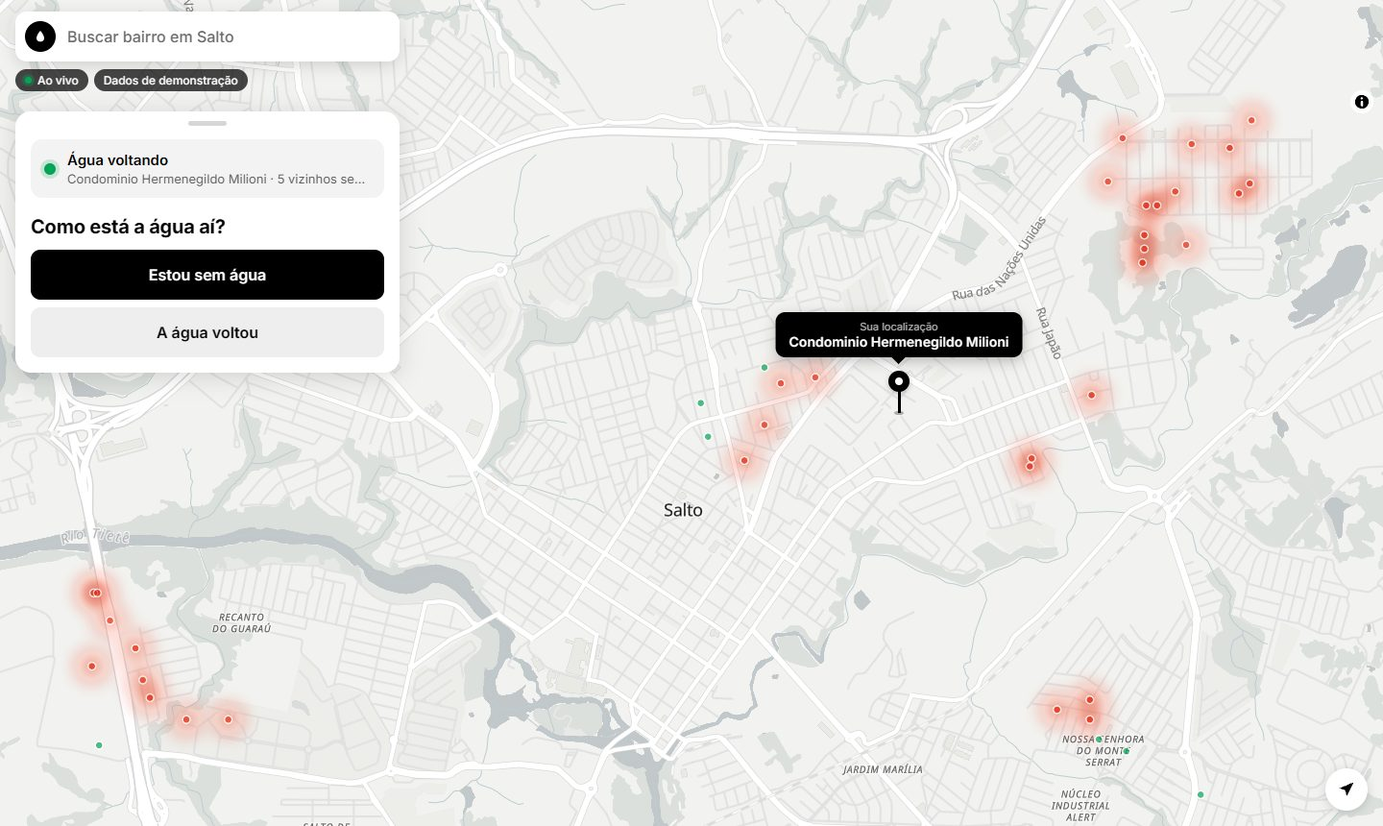
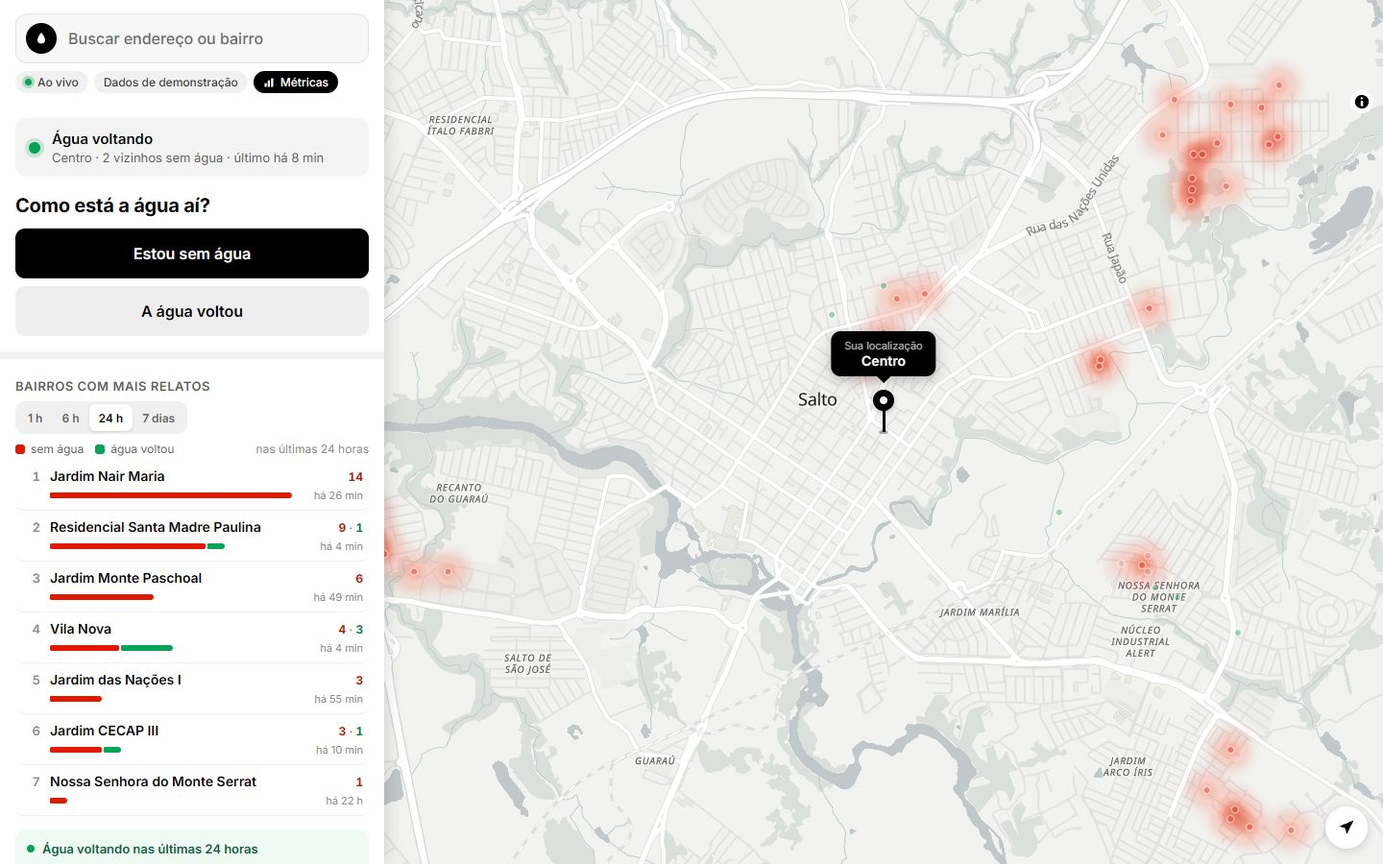
Documentação: README com novas capturas, recursos e Docker; AGENTS.md atualizado

diff --git a/AGENTS.md b/AGENTS.md
@@ -9,20 +9,22 @@ Instruções para agentes de IA (Claude Code, Codex, Cursor, Copilot, Gemini…)
 Rode da raiz (`nova-startup/`) ou de `tem-agua/` — a raiz só repassa com `--prefix tem-agua`.
 
 ```bash
-npm run dev          # API + mapa + painel + shell → http://localhost:4200
+npm run dev          # banco (Docker) + API + mapa + painel + métricas + shell → http://localhost:4200 (métricas em /metricas)
 npm run dev:ngrok    # + túnel HTTPS público via ngrok (token em tem-agua/.env.local: NGROK_AUTHTOKEN=)
 npm run dev:tunnel   # + túnel HTTPS público via cloudflared (sem conta, link muda a cada execução)
-npm run stop         # derruba tudo que os comandos acima subiram (portas 4200/4201/4202/4300 + túnel do script)
+npm run stop         # derruba tudo que os comandos acima subiram (portas 4200–4203/4300, túnel do script e o container db)
+npm run db:seed      # 30 dias de relatos de demonstração (origem = 'demo'); db:limpar-demo apaga; db:psql abre o psql
 ```
 
 Dentro de `tem-agua/`:
 
 ```bash
-npm run typecheck                          # tsc (mapa) + vue-tsc (painel) — NÃO cobre o shell
+npm run typecheck                          # tsc (mapa) + vue-tsc (painel, metricas) — NÃO cobre o shell
 cd apps/shell && npx ng build              # type-check/build do shell (Angular)
 npm run build                              # build de produção dos três front-ends
 npm run dev -w apps/mapa                   # remoto isolado com HMR em :4201 (rode npm run stop antes)
 npm run dev -w apps/painel                 # idem, :4202
+npm run dev -w apps/metricas               # idem, :4203 (tem proxy /api próprio para a API em :4300)
 ```
 
 Não há suíte de testes nem linter configurados. Valide com typecheck/build e rodando o app.
@@ -31,14 +33,16 @@ Não há suíte de testes nem linter configurados. Valide com typecheck/build e 
 
 ## Arquitetura
 
-Quatro processos, todos servidos pela **mesma origem** (`localhost:4200`) através do proxy do Angular (`apps/shell/proxy.conf.json`):
+O `npm run dev` exige **Docker** (só para o banco). Os processos de app são todos servidos pela **mesma origem** (`localhost:4200`) através do proxy do Angular (`apps/shell/proxy.conf.json`):
 
 | App | Stack | Porta | Caminho no shell |
 |-----|-------|-------|------------------|
 | `apps/shell` | Angular 21 (zoneless, signals) | 4200 | `/` |
 | `apps/mapa` | React 19 + MapLibre GL 6 | 4201 | `/remotes/mapa/` |
 | `apps/painel` | Vue 3 | 4202 | `/remotes/painel/` |
-| `apps/api` | Node + `ws` | 4300 | `/api` (HTTP) e `/api/ws` (WebSocket) |
+| `apps/metricas` | Vue 3 + ECharts + MapLibre | 4203 | `/remotes/metricas/` (rota `/metricas` do shell) |
+| `apps/api` | Node + `pg` + `ws` | 4300 | `/api` (HTTP) e `/api/ws` (WebSocket) |
+| `db` (compose) | PostgreSQL 18 + PostGIS 3.6 | 5442 (só localhost) | — |
 
 Mesma origem é requisito: o GPS só funciona em HTTPS (um único túnel), o worker do MapLibre não pode vir de outra origem e não há CORS.
 
@@ -48,7 +52,7 @@ Mesma origem é requisito: o GPS só funciona em HTTPS (um único túnel), o wor
 - Os remotos usam `@module-federation/vite` e expõem um único módulo `./mount` com o contrato `MountFn = (el) => unmount` — independente de framework. Para criar outro remoto, siga esse contrato, adicione em `REMOTES` e uma entrada no proxy.
 - `base` dos remotos é `/remotes/<nome>/` em **build e preview** (`command === 'build' || isPreview` no `vite.config.ts`); só o `vite` dev standalone usa `/`.
 - No `npm run dev` os remotos rodam `vite build --watch` + `vite preview` (não o dev server): alterações recompilam em ~1 s mas **exigem recarregar a página**; não há HMR no modo integrado.
-- CSS dos remotos é importado com `?inline` e injetado por `mount()`. **Não use `<style>` em SFCs Vue** nem CSS importado normalmente: não chegaria ao host. Classes são prefixadas (`ta-mapa*`, `ta-pin*`, `ta-sheet*`, `ta-toast`…).
+- CSS dos remotos é importado com `?inline` e injetado por `mount()`. **Não use `<style>` em SFCs Vue** nem CSS importado normalmente: não chegaria ao host. Classes são prefixadas (`ta-mapa*`, `ta-pin*`, `ta-sheet*`, `ta-toast`, `ta-met*`…). Use `injectStyle`/`injectMaplibreStyle` de `contracts/src/styles.ts`: o CSS do MapLibre (usado por mapa e métricas) entra **uma vez, no início do `<head>`**. Se cada remoto injetar a própria cópia, a mais recente sobrescreve regras de mesma especificidade do outro remoto (já deixou o mapa em branco ao voltar de `/metricas`).
 - `shared: {}`: cada remoto empacota seu próprio framework.
 
 ### Comunicação entre microfrontends
@@ -57,12 +61,39 @@ Mesma origem é requisito: o GPS só funciona em HTTPS (um único túnel), o wor
 
 O barramento (`contracts/src/bus.ts`) guarda o estado em `window.__TEM_AGUA_BUS__` porque cada bundle tem sua própria cópia do módulo; `on()` entrega o último valor (replay) para quem monta depois. Eventos tipados em `BusEvents` (`types.ts`) — adicione lá antes de emitir algo novo:
 
-- `reports` shell → todos · `center` mapa → todos (posição do pin + bairro) · `report-submit` painel → shell
+- `reports` shell → todos (o painel de métricas usa como gatilho para recarregar) · `center` mapa → todos (posição do pin + bairro) · `report-submit` painel → shell
 - `fly-to` shell/painel → mapa · `sheet-height` painel → shell · `map-padding` shell → mapa
+
+### Indexação no Google (SEO)
+
+- `apps/api/seo.mjs` renderiza no servidor `/bairros`, `/bairros/<slug>` (404 com `noindex` se não existir), `/sitemap.xml` e `/robots.txt`, com cache de 60 s. **Só `origem = 'app'`.** URLs absolutas: `SITE_URL` ou a origem da requisição (`X-Forwarded-Proto` + `Host`).
+- A lista de bairros é `packages/contracts/src/bairros.json` (fonte única: o `bairros.ts` importa o JSON; a imagem da API copia o arquivo). `slugBairro`/`bairroPorSlug` em `geo.ts`; a API tem a mesma função de slug — mantenha iguais.
+- `/?bairro=<slug>`: a `MapaPage` voa até o bairro no `map-ready` e remove o parâmetro da URL.
+- `index.html` tem marcadores `__SITE_URL__` e `__GOOGLE_SITE_VERIFICATION__` trocados pelo Nginx (`sub_filter`). O Nginx agora é **template** (`docker/nginx.conf.template` → `/etc/nginx/templates/`), com `NGINX_ENVSUBST_FILTER` restrito a essas duas variáveis; use `$http_host` (mantém a porta), não `$host`. Dev: `proxy.conf.json` repassa `/bairros`, `/sitemap.xml` e `/robots.txt` para a API.
+- Sem JavaScript, um `<noscript><style>` esconde a splash (o script que a fecha não roda).
+
+### Splash screen e PWA
+
+- Splash inline em `apps/shell/src/index.html` (HTML+CSS+script, aparece antes do JS). Fecha com `window.temAguaSplash.fechar()` (`splash.ts`): na home quando o mapa emite `map-ready` (primeiro `idle` do MapLibre); em `/metricas` via `<ta-remote-slot [fechaSplash]="true">`; em erro de remoto sempre. Mínimo de 700 ms na tela, limite de 10 s.
+- PWA: `public/manifest.webmanifest` (atalhos para Métricas e Monitoramento) + `public/icons/` (SVG, 192, 512, maskable 512, apple-touch 180). Os PNGs são gerados do mesmo desenho da gota (Chrome headless). O Nginx precisa servir o manifest como `application/manifest+json` (regra própria no `nginx.conf`).
+
+### Barra lateral e busca da home
+
+- Desktop (≥768px): `<aside class="lateral">` na `MapaPage` reúne busca + selos + painel numa coluna de 400 px (`LARGURA_LATERAL` = padding esquerdo do mapa), com uma rolagem só e cabeçalho sticky. Celular: `display: contents` e tudo volta a flutuar sobre o mapa. **Atenção ao z-index:** dentro da coluna flex o `ta-remote-slot.sheet` é item de flex, e em item de flex o `z-index` vale mesmo com `position: static` — por isso ele é `auto` no desktop (com 10 o painel cobria sugestões e selos). No celular a busca fica em z 20 acima do sheet (z 10), e o shell passa `--ta-sheet-max` para o sheet nunca subir por baixo da busca.
+- Autocompletar (`search-bar.ts`): vazio → "Sua localização" (emite `locate`) + buscas recentes (`localStorage` `tem-agua:buscas-recentes`); digitando → bairros locais na hora + `GET /api/geocode?q=` com debounce de 250 ms; setas/Enter/Esc, trecho casado em negrito (o `@for` do título fica numa linha só: quebra de linha vira espaço entre os trechos). Endereço/lugar → zoom 17; bairro → 15,5.
+- `apps/api/geocode.mjs`: proxy com cache (1 dia, 1000 entradas) e limite de 60/min por IP para o **Photon** (komoot, OSM) — o Nominatim proíbe autocompletar. Filtra `city = Salto` (o recorte pega Itu/Indaiatuba) e também busca a variante com algarismos ("nove de julho" → "9 de julho", como as ruas estão no OSM). `PHOTON_URL` troca o servidor.
+
+### Ranking de bairros da home (`apps/painel`)
+
+Filtro 1 h / 6 h / 24 h / 7 dias (calculado no cliente a partir de `reports`; escolha em `localStorage` `tem-agua:ranking-periodo`). Ranking só com bairros que tiveram falta; os que só tiveram "água voltou" (último relato do período = volta) aparecem em "Água voltando" como etiquetas. Visual diferente por `matchMedia('(min-width: 768px)')`: desktop = lista sempre visível (sem alça), top 10, barra empilhada falta/volta + números + último relato; celular = dentro do sheet expandido, top 5, barra só de falta + contagem; ambos com "Ver todos". O status "Provável falta de água" do topo continua usando 6 h, independente do filtro.
+
+Abrir/fechar no celular (alça `ta-sheet__grip`, arrastar ou tocar no fundo escurecido `.ta-fundo`): `<Transition :css="false">` com Web Animations API em `Painel.vue`. A altura vai só até o que cabe no `max-height` do sheet (senão parece um salto) e padding/borda de `.ta-sheet__more` animam junto (com `border-box`, zerar só a altura deixa ~30 px e dá um salto no fim). Sem animação no desktop e com `prefers-reduced-motion`.
 
 ### Layout e posição do pin
 
-O shell é dono do layout (`app.ts`) e emite `map-padding`: desktop (≥768px) `{ left: 432 }` (painel flutuante à esquerda); celular `{ top: 88, bottom: <sheet-height> }`. O mapa aplica esse padding e posiciona o pin no centro da área livre — portanto **`map.getCenter()` é exatamente a posição do pin**. Se mudar a altura da busca ou a largura do painel, atualize esses números em `app.ts`.
+O shell tem duas rotas (`app.routes.ts`): `/` (`MapaPage`) e `/metricas` (`MetricasPage`, lazy). O `ReportsService` é injetado no `App` raiz para o WebSocket ficar vivo nas duas.
+
+A `MapaPage` é dona do layout do mapa e emite `map-padding`: desktop (≥768px) `{ left: 432 }` (painel flutuante à esquerda); celular `{ top: 88, bottom: <sheet-height> }`. O mapa aplica esse padding e posiciona o pin no centro da área livre — portanto **`map.getCenter()` é exatamente a posição do pin**. Se mudar a altura da busca ou a largura do painel, atualize esses números em `mapa-page.ts`.
 
 Arrastar o pin (`MapaApp.tsx`) faz `map.panBy(offset)` enquanto o pin volta ao centro na mesma animação (`flushSync` + reflow forçado antes de zerar o deslocamento, para a transição CSS disparar).
 
@@ -72,7 +103,12 @@ O MapLibre procuraria o worker ao lado do próprio módulo (que foi empacotado n
 
 - `ReportsService` (shell) junta três fontes: relatos de **demonstração** (gerados no cliente, `demo: true`), do **servidor** (de todos os aparelhos) e os **deste aparelho** (`mine`, posição exata, `localStorage` `tem-agua:my-reports:v2`, com `synced` para reenvio ao reconectar). Atualizações chegam por WebSocket; ao (re)conectar faz `GET /api/reports`.
 - A posição exata nunca sai do aparelho: `toPublicReport()` arredonda antes do POST e a API arredonda de novo. Precisão = `PUBLIC_DECIMALS = 4` (~11 m) — **mantenha igual em `packages/contracts/src/geo.ts` e `apps/api/server.mjs`**. Com 3 casas (~110 m) o mesmo ponto ficava ~90 px deslocado entre aparelhos.
-- A API (`apps/api/server.mjs`) valida campos, só aceita pontos dentro de `SALTO_BOUNDS`, limita 10 relatos/min por IP (`cf-connecting-ip`/`x-forwarded-for`), guarda 7 dias em `apps/api/data/reports.json` (gitignored) e deduplica por `id`. É protótipo: o plano é trocar o JSON por banco (ex.: Postgres/PostGIS, Supabase) sem mudar os remotos.
+- A API (`apps/api/server.mjs`) valida campos, só aceita pontos dentro de `SALTO_BOUNDS`, limita 10 relatos/min por IP (`cf-connecting-ip`/`x-forwarded-for`) e deduplica por `id` (`ON CONFLICT DO NOTHING`). Conecta com retentativas e aplica `apps/api/db/schema.sql` (idempotente) a cada inicialização; `DATABASE_URL` padrão é `postgres://temagua:temagua@localhost:5442/temagua` (no Docker, `@db:5432`). Na primeira subida importa e renomeia o antigo `apps/api/data/reports.json`, se existir.
+- Banco (`db/schema.sql`): tabela `relatos` com `criado_em timestamptz` e colunas **geradas** `dia`/`hora` (fuso `America/Sao_Paulo`) e `geom geography(Point)`; índices em (dia, hora), criado_em, bairro e GiST em geom. `origem` = `'app'` (real) ou `'demo'` (`npm run db:seed`, gerador determinístico em `apps/api/seed.mjs`). `/api/reports?horas=1..168` só devolve `origem = 'app'` (padrão 24 h); o shell pede 168 h (7 dias) para o ranking da home, e o mapa filtra 24 h. A demonstração do mapa/ranking da home continua gerada no cliente (a do `db:seed` só aparece nas métricas).
+- Métricas (`apps/api/metricas.mjs`): `GET /api/metricas?de&ate&bairro&demo=0|1` devolve tudo do painel numa resposta (resumo + comparação com o período anterior, série com zeros preenchidos — por hora até 2 dias, por dia acima —, dia da semana × hora, bairros, grade de ~200 m via `ST_SnapToGrid`, 50 recentes); `GET /api/relatorios/relatos.csv` (`;` + BOM para Excel pt-BR); `GET /api/metricas/bairros`. Datas são validadas (calendário real, máx. 366 dias).
+- Painel (`apps/metricas`): ECharts com renderer SVG (impressão nítida). "Sem água"/"água voltou" são cores de **status** cujo par vermelho/verde fica na faixa de daltonismo (ΔE deutan 6,8) — por isso legenda sempre visível, posição fixa na pilha, gap de 2 px, tooltip e "Ver tabela"; o heatmap usa rampa sequencial de um tom (`RAMPA` em `charts.ts`). O mapa usa `preserveDrawingBuffer` para sair no "Imprimir / PDF". Atualiza ao receber `reports` no barramento (debounce 1,5 s) e a cada 60 s; ao recarregar mantém o quadro anterior esmaecido.
+- Relatório PDF (`components/Relatorio.vue` + `MapaImagem.vue`): botão "Relatório PDF" monta um layout A4 próprio fora da tela (3 páginas: resumo escrito a partir dos dados + indicadores + série + mapa; dia×hora + ranking + "Sobre os dados"; tabelas), gráficos sem animação, mapa convertido em PNG (`preserveDrawingBuffer`, `pixelRatio: 2`), espera "pronto" e chama `window.print()`. `@page` com margin boxes ("Página X de Y"). Ctrl+P sem isso imprime a tela.
+- Modo monitoramento (`components/MonitorMapa.vue`, botão "Monitoramento" ou URL `/metricas?modo=monitor`): só o mapa de calor da falta d'água, em tela cheia (Fullscreen API + overlay via `<Teleport to="body">`), usando `GET /api/monitor?horas=1..72&demo`. Duas camadas de calor — falta (vermelho, `RAMPA`) por cima de água voltou (verde, `RAMPA_VOLTOU`) — que **pulsam continuamente em contrafase** (rAF ~20 fps mexendo em `heatmap-intensity`/`heatmap-opacity`; o ritmo diferencia as cores para daltonismo; estático com `prefers-reduced-motion`). Peso no calor decai com a idade do relato; anéis só para relatos criados depois da carga anterior (trocar a janela não dispara anéis); relato novo vira um `Marker` com anel pulsante — a animação fica num **filho** do elemento do marker, porque o MapLibre posiciona o marker com `transform` e um `transform` animado no próprio elemento o joga para (0,0). Wake Lock, cursor oculto após 3 s, Esc fecha. Enquanto aberto, o painel por baixo não recarrega.
 - Tempo real é **WebSocket, não SSE**: os Quick Tunnels da Cloudflare seguram streams SSE.
 - A API lê `API_PORT` (não `PORT`): ferramentas de dev definem `PORT=4200` para o app principal.
 
@@ -87,6 +123,21 @@ O MapLibre procuraria o worker ao lado do próprio módulo (que foi empacotado n
 
 - Estilo `positron` da OpenFreeMap (sem chave, uso comercial liberado).
 - `contracts/src/bairros.ts`: 91 centroides de bairros extraídos do OpenStreetMap; `nearestBairro()` dá o bairro do pin. `SALTO_BOUNDS` limita o mapa, o GPS ("fora de Salto") e a API.
+
+## Docker
+
+`compose.yaml` (raiz) + `tem-agua/docker/`. Contexto de build é `tem-agua/` (ver `tem-agua/.dockerignore`).
+
+```bash
+npm run docker:up      # web (Nginx) + api → http://localhost:8080
+npm run docker:down    # inclui os perfis ngrok/cloudflared; "docker compose down" puro não derruba os túneis
+```
+
+- `db`: `postgis/postgis:18-3.6-alpine`, volume `banco` em `/var/lib/postgresql` (layout do PG 18), porta `127.0.0.1:5442` (a 5433 é de outro projeto do usuário). O `npm run dev` sobe **este mesmo serviço**: dev e Docker compartilham os dados.
+- `web`: build multi-stage (`npm ci` + `npm run build` em node:22-alpine) → nginx:1.30-alpine. `docker/nginx.conf` faz o papel do `proxy.conf.json` do dev: `/remotes/<nome>/` estático, `^~ /api/` e `= /api/ws` (upgrade) para `api:4300`, SPA fallback no `/`.
+- `api`: sem estado; `DATABASE_URL` aponta para `db`; trata SIGTERM (fecha WebSockets e o pool).
+- Ao adicionar um remoto novo, além do `REMOTES`/`proxy.conf.json`, copie o `dist` dele em `web.Dockerfile` e inclua o `package.json` dele no estágio de `npm ci`.
+- No Git Bash do Windows, use `MSYS_NO_PATHCONV=1` em `docker run` com caminhos como `/bin/sh`.
 
 ## Restrições do ambiente
 

diff --git a/tem-agua/README.md b/tem-agua/README.md
@@ -8,32 +8,37 @@ Cada parte é um **microfrontend em um framework diferente**, ligado por **Modul
 |-----|-----------|-------|------------------|
 | `apps/shell` | Angular 21 | 4200 | Layout, busca de bairro, dono dos relatos (`ReportsService`), carrega os remotos |
 | `apps/mapa` | React 19 + MapLibre | 4201 | Mapa, pin arrastável, mapa de calor dos relatos, botão "minha localização" |
+| `apps/metricas` | Vue 3 + ECharts + MapLibre | 4203 | Painel de métricas e relatórios em `/metricas`: indicadores, série por hora/dia, dia da semana × hora, ranking e mapa por área, CSV e PDF — em tempo real |
 | `apps/painel` | Vue 3 | 4202 | Bottom sheet: status da região, "Estou sem água" / "A água voltou", ranking de bairros |
-| `apps/api` | Node + ws | 4300 | Recebe os relatos, salva em `apps/api/data/reports.json` e avisa todos os aparelhos em tempo real (WebSocket) |
+| `apps/api` | Node + PostgreSQL + ws | 4300 | Recebe os relatos, grava no banco e avisa todos os aparelhos em tempo real (WebSocket); serve as métricas e o CSV |
+| `db` | PostgreSQL 18 + PostGIS | 5442 | Relatos por dia, hora e coordenadas (serviço do `compose.yaml`; sobe sozinho no `npm run dev`) |
 | `packages/contracts` | TypeScript | — | Tipos, barramento de eventos e dados dos bairros, compartilhados por todos |
 
 ## Rodando
 
-Requer Node 20.19+. Os comandos funcionam tanto na pasta `tem-agua` quanto na raiz `nova-startup`.
+Requer Node 20.19+ e **Docker** (o banco de dados roda num container, mesmo no `npm run dev`). Os comandos funcionam tanto na pasta `tem-agua` quanto na raiz `nova-startup`.
 
 | Comando | O que faz |
 |---------|-----------|
-| `npm run dev` | Sobe API, mapa, painel e shell em http://localhost:4200 |
+| `npm run dev` | Sobe banco, API, mapa, painel, métricas e shell em http://localhost:4200 |
 | `npm run dev:ngrok` | O mesmo + túnel HTTPS do **ngrok**, com o link público em destaque (para o celular/GPS) |
 | `npm run dev:tunnel` | O mesmo, mas com o túnel do **cloudflared** (sem conta) |
-| `npm run stop` | Derruba tudo que os comandos acima subiram (inclusive o túnel aberto por eles) |
+| `npm run stop` | Derruba tudo que os comandos acima subiram (inclusive o túnel e o container do banco; os dados ficam) |
+| `npm run db:seed` | Gera 30 dias de relatos de **demonstração** para o painel (`origem = 'demo'`, nunca se misturam aos reais) |
+| `npm run db:limpar-demo` | Apaga só a demonstração |
+| `npm run db:psql` | Abre o `psql` no banco |
 
 No Windows também dá para dar dois cliques em `iniciar.cmd` (usa o ngrok) / `parar.cmd`, na raiz `nova-startup`.
 
 O que o `scripts/dev.mjs` faz:
 1. Confere a versão do Node e instala as dependências se faltar `node_modules`.
-2. Confere se as portas 4200, 4201, 4202 e 4300 estão livres. Se não estiverem, mostra o PID e o processo de cada uma e sugere o `npm run stop`.
+2. Sobe o container do banco (`db`) e confere se as portas 4200–4203 e 4300 estão livres. Se não estiverem, mostra o PID e o processo de cada uma e sugere o `npm run stop`.
 3. Sobe a API e os remotos; o shell só sobe depois que os `remoteEntry.js` respondem (sem "falha ao carregar" na primeira abertura).
 4. Com `--tunnel=ngrok` ou `--tunnel=cloudflared`, espera o shell e abre o túnel. O link também fica salvo em `tem-agua/.tunnel-url`.
 
 Se um processo cair, os outros são derrubados; Ctrl+C para tudo. Os remotos rodam em `vite build --watch` + `vite preview`: cada alteração recompila em ~1 s, recarregue a página para ver.
 
-Para desenvolver um remoto isolado com hot reload: `npm run stop`, depois `npm run dev -w apps/mapa` (http://localhost:4201) ou `npm run dev -w apps/painel` (http://localhost:4202).
+Para desenvolver um remoto isolado com hot reload: `npm run stop`, depois `npm run dev -w apps/mapa` (http://localhost:4201) `npm run dev -w apps/painel` (http://localhost:4202) ou `npm run dev -w apps/metricas` (http://localhost:4203, com proxy próprio de `/api`).
 
 ### Testar no celular (com GPS)
 
@@ -49,7 +54,7 @@ O navegador só libera o GPS em HTTPS: use `npm run dev:ngrok` (ou `iniciar.cmd`
 
 Sem token/cloudflared, o app sobe normalmente em localhost e o terminal mostra o que fazer.
 
-Isso funciona porque o shell serve tudo pela mesma origem: o `proxy.conf.json` do Angular repassa `/remotes/mapa` → porta 4201, `/remotes/painel` → porta 4202 e `/api` (HTTP e WebSocket) → porta 4300. O `angular.json` libera os hosts do cloudflared e do ngrok.
+Isso funciona porque o shell serve tudo pela mesma origem: o `proxy.conf.json` do Angular repassa `/remotes/mapa` → porta 4201, `/remotes/painel` → porta 4202, `/remotes/metricas` → porta 4203 e `/api` (HTTP e WebSocket) → porta 4300. O `angular.json` libera os hosts do cloudflared e do ngrok.
 
 ## Como os microfrontends se integram
 
@@ -73,14 +78,75 @@ Isso funciona porque o shell serve tudo pela mesma origem: o `proxy.conf.json` d
 - **GPS**: o botão de localização usa alta precisão, mostra o ponto azul com o círculo de precisão e avisa quando a permissão é negada, o GPS falha, a precisão é ruim (> 50 m) ou a pessoa está fora de Salto.
 - **Pin**: dá para arrastar o mapa (o pin fica fixo no centro) **ou** o próprio pin. Ao soltar o pin, o mapa desliza até o ponto escolhido e o pin volta ao centro na mesma animação.
 - **Privacidade (LGPD)**: a posição exata fica só no aparelho, para o ponto aparecer onde o pin estava. O que vai para o servidor passa por `toPublicReport()` e é arredondado de novo na API, para ~11 m (`PUBLIC_DECIMALS = 4`). Com ~110 m (3 casas) o ponto ficava ~90 px deslocado entre aparelhos.
-- **Bairros**: 91 centroides aproximados extraídos do OpenStreetMap (`packages/contracts/src/bairros.ts`).
+- **Bairros**: 91 centroides aproximados extraídos do OpenStreetMap (`packages/contracts/src/bairros.json`, fonte única para o front e a API).
 - **Tempo real**: um relato feito em qualquer aparelho aparece nos outros em ~1 s. O `ReportsService` (shell) junta três fontes: relatos de demonstração, os do servidor (posição arredondada) e os deste aparelho (posição exata, no `localStorage`). Se a conexão cair, o indicador vira "Reconectando…", o relato fica pendente e é reenviado ao reconectar.
 - **Por que WebSocket e não SSE**: os Quick Tunnels da Cloudflare (`trycloudflare.com`) seguram streams de Server-Sent Events; WebSocket passa normalmente.
-- **API**: valida os dados, aceita só posições dentro de Salto, arredonda a posição no servidor (nunca guarda a exata), limita 10 relatos por minuto por IP e guarda 7 dias. É um protótipo: para produção, troque o arquivo JSON por um banco (ex.: Postgres/PostGIS ou Supabase).
+- **API**: valida os dados, aceita só posições dentro de Salto, arredonda a posição no servidor (nunca guarda a exata), limita 10 relatos por minuto por IP e ignora relatos repetidos (mesmo `id`). Grava no PostgreSQL + PostGIS (ver abaixo).
+- **Busca de endereço**: autocompletar pelo [Photon](https://photon.komoot.io) (OpenStreetMap), passando pela API (`/api/geocode`, com cache e limite por IP) e filtrado para Salto. O Nominatim proíbe uso como autocompletar.
 - **Angular 21 em vez de 22**: o Angular 22 exige Node 22+. Com Node 22+ instalado, dá para atualizar com `ng update`.
+
+## Banco de dados e métricas
+
+Cada relato é uma linha da tabela `relatos` (`apps/api/db/schema.sql`, aplicado pela API ao subir): `id`, `status`, `bairro`, `lat`/`lng` (já arredondados para ~11 m), `origem` e `criado_em`, mais colunas calculadas pelo próprio PostgreSQL — **`dia`** e **`hora`** no fuso de Salto e **`geom`** (ponto PostGIS, com índice espacial).
+
+O painel em **`/metricas`** consulta `GET /api/metricas?de=AAAA-MM-DD&ate=AAAA-MM-DD&bairro=...&demo=0|1` (uma resposta com tudo) e se atualiza sozinho quando chega um relato novo. "Exportar CSV" baixa `/api/relatorios/relatos.csv` com os mesmos filtros (dia, hora, data/hora, bairro, status, latitude, longitude; separador `;` para o Excel em português). "Imprimir / PDF" gera o relatório pelo navegador, sem os controles.
+
+**Modo monitoramento:** o botão "Monitoramento" (ou o link direto `/metricas?modo=monitor`, para deixar numa TV) mostra só o mapa de calor da falta d'água em tela cheia, atualizando em tempo real: cada relato novo pisca no mapa no instante em que chega, os mais antigos esfriam com o tempo e dá para escolher a janela (1 h, 6 h ou 24 h). A tela não apaga sozinha, o cursor some quando parado e Esc sai.
+
+Para ver o painel com dados antes de ter relatos reais: `npm run db:seed`. O painel avisa quando o período inclui demonstração e permite desligá-la.
+
+## Indexação no Google (SEO)
+
+O app é uma SPA (microfrontends carregados por JavaScript), então a API também serve **páginas HTML prontas** para o Google:
+
+| URL | O que é |
+|-----|---------|
+| `/bairros/<bairro>` (ex.: `/bairros/jardim-nair-maria`) | Situação da água no bairro agora, contagens de 24 h / 7 dias / 30 dias, bairros próximos e botão para o mapa já no bairro. Título e descrição próprios para buscas como "falta de água jardim nair maria salto" |
+| `/bairros` | Índice com os 91 bairros, os com falta primeiro |
+| `/sitemap.xml` | Home, métricas, índice e todas as páginas de bairro (com `lastmod` do último relato) |
+| `/robots.txt` | Libera o site; bloqueia CSV, autocompletar e o modo TV; aponta o sitemap |
+
+- As páginas usam **só relatos reais** — a demonstração nunca aparece para o Google.
+- A home tem título/descrição de busca, `canonical`, Open Graph com imagem (`icons/og.png`, para links no WhatsApp/redes), JSON-LD (`WebApplication`) e conteúdo em `<noscript>`.
+- `/?bairro=<bairro>` abre o mapa direto no bairro (é o destino dos botões das páginas de bairro).
+
+**Para colocar no ar** (no `.env` da raiz ou no ambiente do `docker compose`):
+
+```bash
+SITE_URL=https://seu-dominio.com.br           # vira o canonical, o sitemap e o Open Graph
+GOOGLE_SITE_VERIFICATION=codigo-do-search-console
+```
+
+Sem `SITE_URL`, as URLs usam a origem da requisição (útil no dev e no túnel). Depois, no [Google Search Console](https://search.google.com/search-console): adicione o domínio (verificação por meta tag usa o código acima; por DNS não precisa de nada aqui) e envie `https://seu-dominio.com.br/sitemap.xml`. O Google não aceita mais "ping" de sitemap — o envio é pelo Search Console.
+
+## Docker
+
+Infra de produção em containers, definida em `compose.yaml` (raiz do repositório):
+
+| Container | Imagem | O que faz |
+|-----------|--------|-----------|
+| `web` | `docker/web.Dockerfile` — build em `node:22-alpine`, runtime `nginx:1.30-alpine` | Compila os três front-ends e serve tudo na mesma origem: shell em `/`, remotos em `/remotes/<nome>/`, proxy de `/api` e do WebSocket `/api/ws` para a API (`docker/nginx.conf`) |
+| `db` | `postgis/postgis:18-3.6-alpine` | Banco; dados no volume `banco`. Porta `127.0.0.1:5442` para ferramentas de BD |
+| `api` | `docker/api.Dockerfile` — `node:22-alpine`, usuário sem root | API de relatos e métricas (sem estado; usa o `db`) |
+| `ngrok` | `ngrok/ngrok:3` (perfil `ngrok`) | Link público; lê `NGROK_AUTHTOKEN`/`NGROK_DOMAIN` de `tem-agua/.env.local`; painel com o link em http://localhost:4040 |
+| `cloudflared` | `cloudflare/cloudflared` (perfil `cloudflared`) | Link público sem conta; o link aparece em `docker compose logs cloudflared` |
+
+Da raiz do repositório:
+
+```bash
+npm run docker:up       # build + sobe web e api → http://localhost:8080 (porta: WEB_PORT=xxxx)
+npm run docker:ngrok    # + túnel ngrok
+npm run docker:tunnel   # + túnel cloudflared
+npm run docker:logs     # acompanha os logs
+npm run docker:down     # para tudo (inclusive os túneis); os relatos ficam no volume
+```
+
+Para apagar também os relatos salvos: `docker compose down -v`. O `npm run dev` usa o mesmo serviço `db`, então dev e Docker enxergam os mesmos dados.
+
+Detalhes do Nginx: `remoteEntry.js` e `index.html` sempre revalidam (deploy novo aparece sem limpar cache); arquivos com hash têm cache de 1 ano; o worker `.mjs` do MapLibre sai com MIME de JavaScript; gzip ligado; `/healthz` para healthcheck. A API recebe `SIGTERM` e fecha as conexões antes de sair.
 
 ## Deploy
 
-Publique tudo no mesmo domínio: o build do shell (`apps/shell/dist/shell/browser`) na raiz, e o `dist` de cada remoto em `/remotes/mapa/` e `/remotes/painel/`. Os builds já saem com esses caminhos.
+O jeito mais simples é a imagem `web` + `api` acima (qualquer servidor com Docker). Sem Docker, publique tudo no mesmo domínio: o build do shell (`apps/shell/dist/shell/browser`) na raiz, e o `dist` de cada remoto em `/remotes/mapa/`, `/remotes/painel/` e `/remotes/metricas/`. As rotas `/api`, `/bairros`, `/sitemap.xml` e `/robots.txt` vão para a API. Os builds já saem com esses caminhos.
 
 Se um remoto precisar ficar em outro domínio, use `MAPA_PUBLIC_URL`/`PAINEL_PUBLIC_URL` no build dele, ajuste `REMOTES` em `apps/shell/src/app/remotes.ts` e libere CORS para o domínio do shell.
